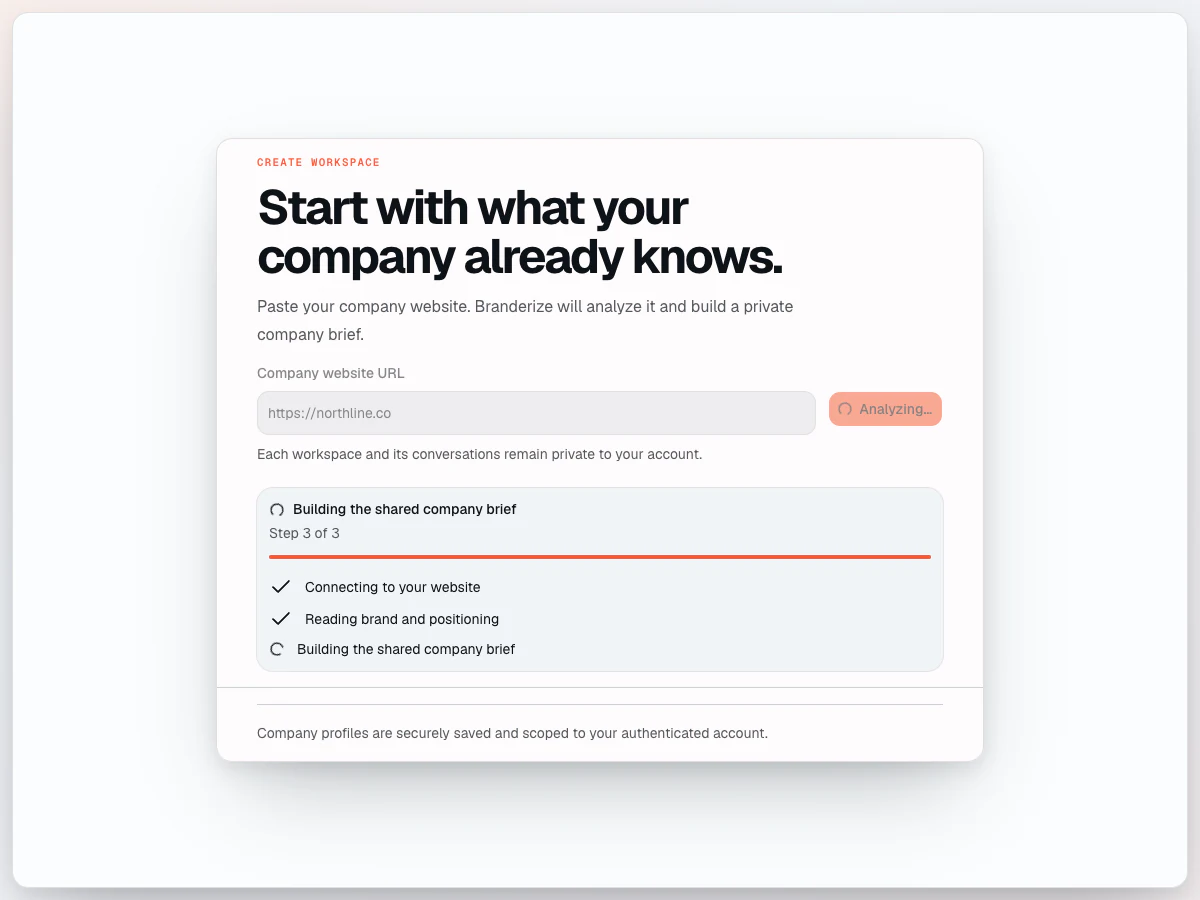
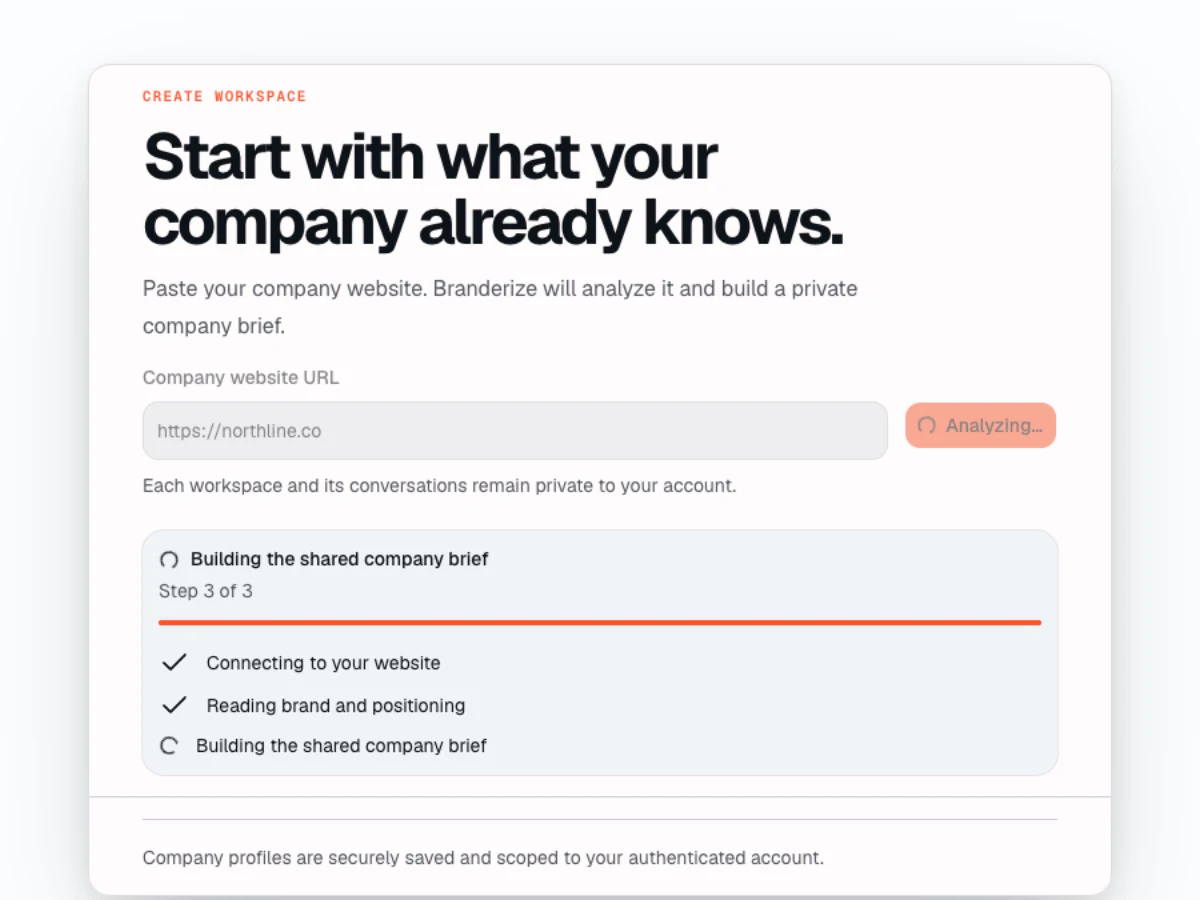
Update Next types path and refresh workspace ingest asset

diff --git a/next-env.d.ts b/next-env.d.ts
@@ -1,6 +1,6 @@
 /// <reference types="next" />
 /// <reference types="next/image-types/global" />
-import "./.next/types/routes.d.ts";
+import "./.next/dev/types/routes.d.ts";
 
 // NOTE: This file should not be edited
 // see https://nextjs.org/docs/app/api-reference/config/typescript for more information.